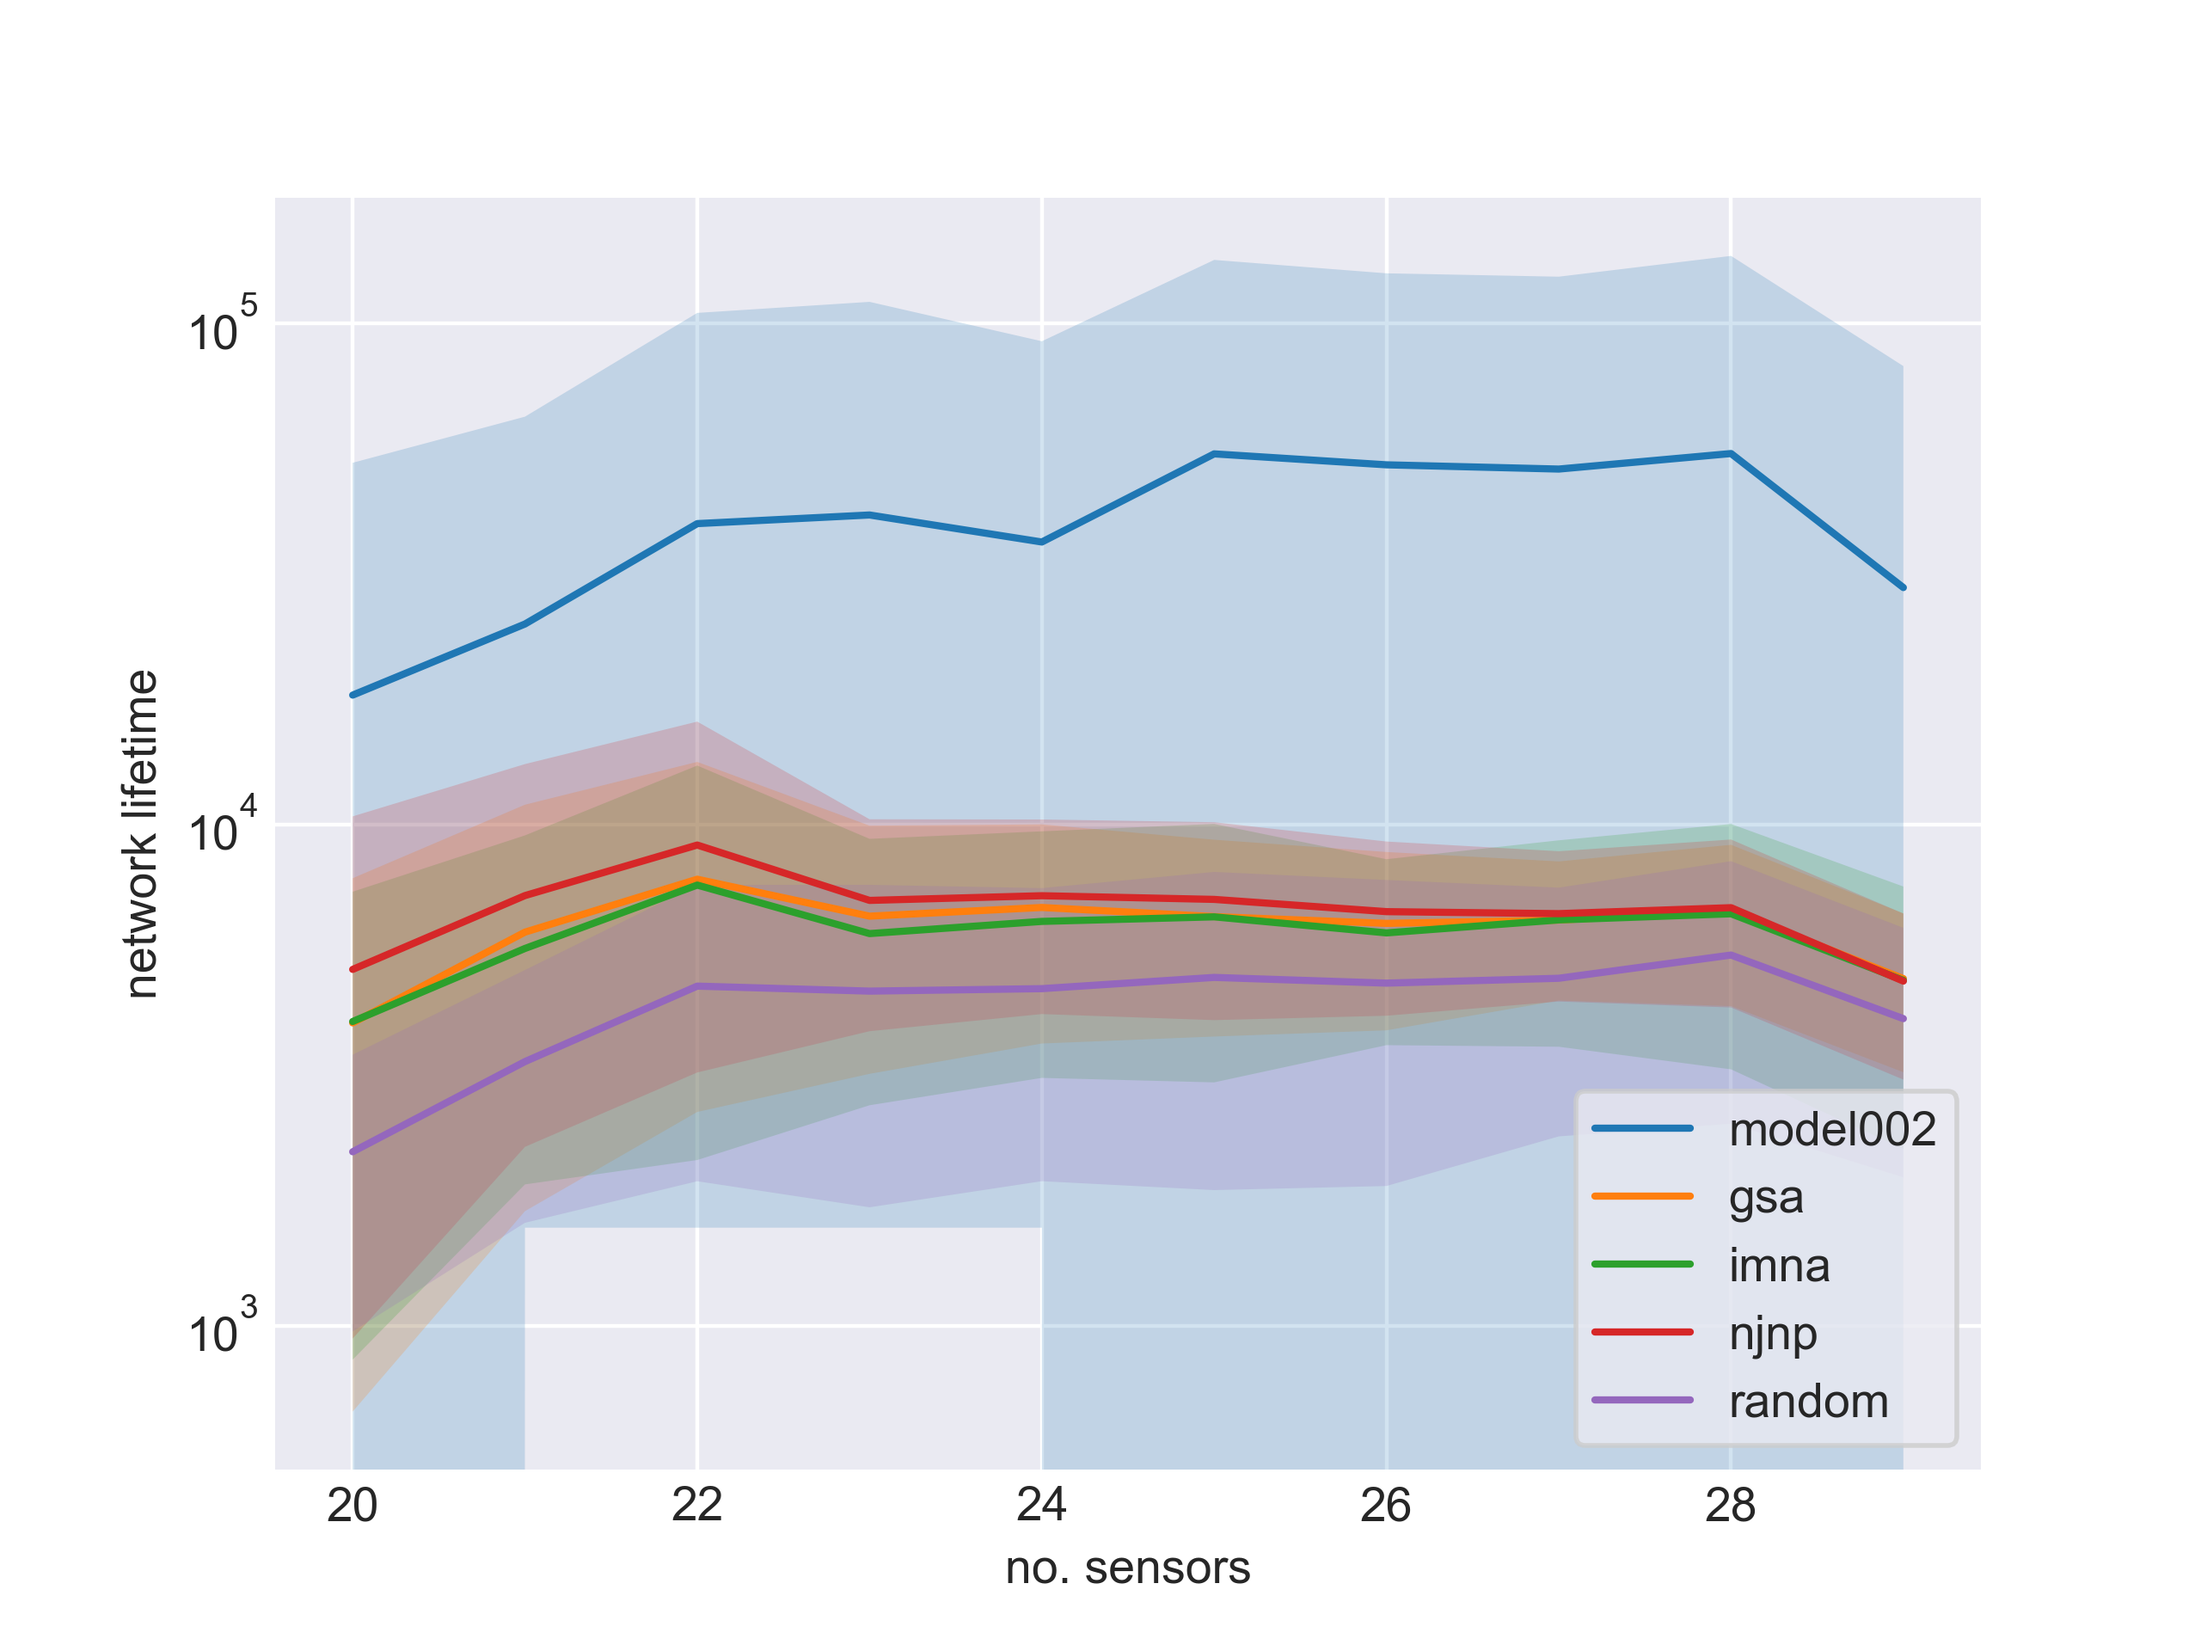
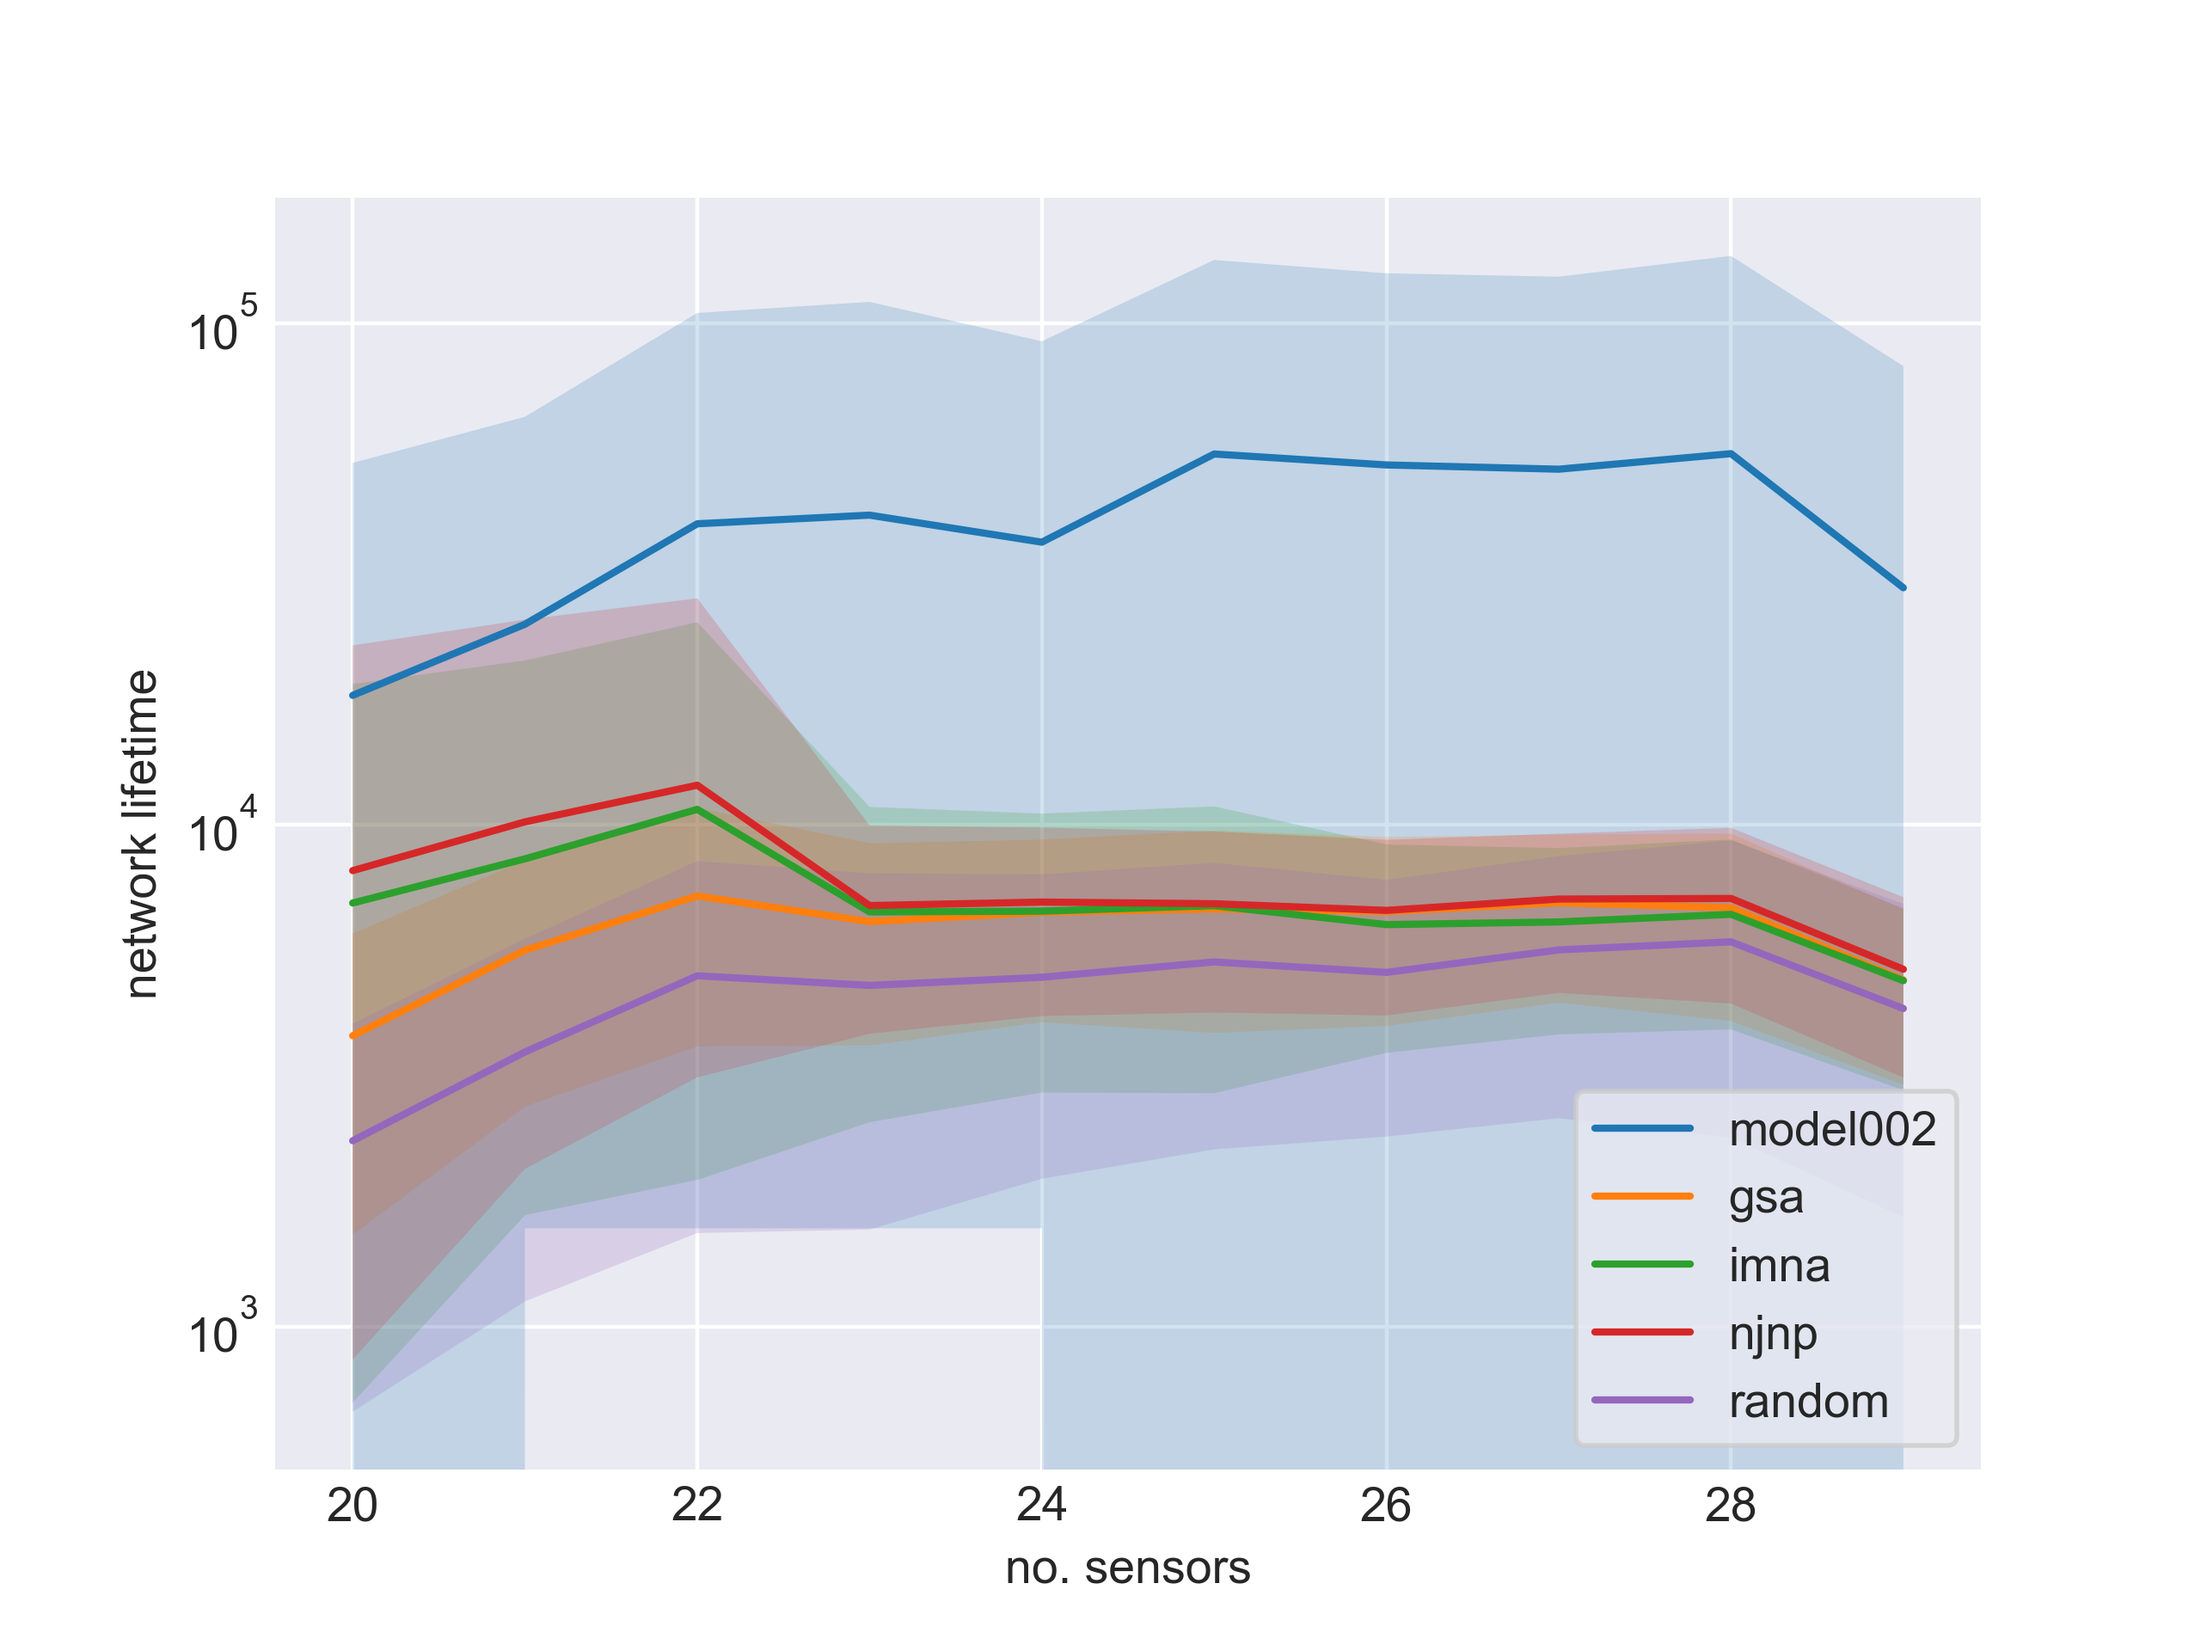
parallelize epts

Changed region(s): [[0.1562, 0.3438, 0.875, 0.8438], [0.1562, 0.6562, 0.2188, 0.7188]]

diff --git a/run_ept_12.py b/run_ept_12.py
@@ -14,6 +14,8 @@ import numpy as np
 import matplotlib.pyplot as plt
 import argparse
 import os
+import joblib
+import time
 
 import model002
 import imna
@@ -76,6 +78,15 @@ def plot_inf_data(x, data, xlabel, ylabel, title, save_dir):
 def run_ept_1_2(ept, seed=123, save_dir='results', rerun=[]):
     used_solvers = ec.ept2.solvers if ept == 2 else ec.ept1.solvers
 
+    def solver_wrapper(solver, jobs_desc, *args):
+        print("running", jobs_desc)
+        start_time = time.time()
+        ret = solver(*args)
+        print("done {}, take: {}, mean_lifetime: {}".format(jobs_desc, 
+                                         time.time() - start_time,
+                                         ret["lifetime_mean"]))
+        return ret
+
     def run_ept_1(save_dir):
         num_targets = ec.ept1.num_targets
         min_num_sensors = ec.ept1.min_num_sensors
@@ -85,15 +96,22 @@ def run_ept_1_2(ept, seed=123, save_dir='results', rerun=[]):
         max_episode_step = ec.max_episode_step
         
         res = defaultdict(list)
+        jobs_args = []
+        jobs_desc = []
         for num_sensors in range(min_num_sensors, max_num_sensors):
             test_data = WRSNDataset(num_sensors, num_targets, ec.ept1.test_size, seed)
             data_loader = DataLoader(test_data, 1, False, num_workers=0)
             for name, solver in solvers.items():
                 if name in used_solvers:
                     if not os.path.isfile(os.path.join(save_dir, f'{name}.pickle')) or name in rerun:
-                        print(f"running on {num_sensors, name}")
-                        ret = solver(data_loader, name, save_dir, wp, max_episode_step)
-                        res[name].append((num_sensors, ret))
+                        jobs_args.append((data_loader, name, save_dir, wp, max_episode_step))
+                        jobs_desc.append((name, num_sensors))
+
+        rets = joblib.Parallel(n_jobs=-1)(joblib.delayed(solver_wrapper)(
+            solvers[jobs_desc[i][0]], jobs_desc[i], *jobs_args[i]) for i in range(len(jobs_args)))
+
+        for i, ret in enumerate(rets):
+            res[jobs_desc[i][0]].append((jobs_desc[i][1], ret))
 
         for key, value in res.items():                
             pdump(value, f'{key}.pickle', save_dir)
@@ -106,6 +124,9 @@ def run_ept_1_2(ept, seed=123, save_dir='results', rerun=[]):
         step = ec.ept2.step
         max_episode_step = ec.max_episode_step
 
+        jobs_args = []
+        jobs_desc = []
+
         res = defaultdict(list)
         test_data = WRSNDataset(num_sensors, num_targets, ec.ept2.test_size, seed)
         data_loader = DataLoader(test_data, 1, False, num_workers=0)
@@ -117,10 +138,15 @@ def run_ept_1_2(ept, seed=123, save_dir='results', rerun=[]):
             for name, solver in solvers.items():
                 if name in used_solvers:
                     if not os.path.isfile(os.path.join(save_dir, f'{name}.pickle')) or name in rerun:
-                        print(f"running on {prob, name}")
-                        ret = solver(data_loader, name, save_dir, wp, max_episode_step)
-                        res[name].append((prob, ret))
-            
+                        jobs_args.append((data_loader, name, save_dir, wp, max_episode_step))
+                        jobs_desc.append((name, prob))
+
+        rets = joblib.Parallel(n_jobs=-1)(joblib.delayed(solver_wrapper)(
+            solvers[jobs_desc[i][0]], jobs_desc[i], *jobs_args[i]) for i in range(len(jobs_args)))
+
+        for i, ret in enumerate(rets):
+            res[jobs_desc[i][0]].append((jobs_desc[i][1], ret))
+
         for key, value in res.items():                
             pdump(value, f'{key}.pickle', save_dir)
 
@@ -150,7 +176,6 @@ def run_ept_1_2(ept, seed=123, save_dir='results', rerun=[]):
         aggregated_ecr_mean = []
         aggregated_ecr_std = []
         inf_model_data = []
-
         for num_sensors, ret in model_data:
             idx.append(num_sensors)
             lifetime_mean.append(ret['lifetime_mean'])

diff --git a/run_ept_3.py b/run_ept_3.py
@@ -14,6 +14,8 @@ import numpy as np
 import matplotlib.pyplot as plt
 import argparse
 import os
+import joblib
+import time
 from main import decision_maker
 from random_strategy import random_decision_maker
 from imna import imna_decision_maker
@@ -31,6 +33,8 @@ def validate(data_loader, decision_maker, args=None,
              render=False, verbose=False, normalize=True,
              on_validation_begin=None, on_validation_end=None, 
              on_episode_begin=None, on_episode_end=None):
+    start_time = time.time()
+
     if on_validation_begin is not None:
         on_validation_begin(*args)
 
@@ -39,7 +43,7 @@ def validate(data_loader, decision_maker, args=None,
     k_bit = wp.k_bit
 
     for idx, data in enumerate(data_loader):
-        if verbose: print("Test %d" % idx)
+        print("Test %d" % idx)
 
         sensors, targets = data
         package_generation_prob = np.random.uniform(*prob_range)
@@ -112,6 +116,7 @@ def validate(data_loader, decision_maker, args=None,
     if on_validation_end is not None:
         on_validation_end(*args)
 
+    print("Validation time : {}".format(time.time() - start_time))
     return ret
 
 def run_model002(data_loader, name, save_dir, wp, prob_range, max_step=1000):
@@ -148,13 +153,14 @@ def run_gsa(data_loader, name, save_dir, wp, prob_range, max_step=1000):
     def gsa_reset(gsa):
         gsa.reset()
 
-    gsa = GSA()
-    return validate(data_loader, gsa.gsa_decision_maker, (gsa,), wp=wp, prob_range=prob_range, 
+    gsa_ = gsa.GSA()
+    return validate(data_loader, gsa.gsa_decision_maker, (gsa_,), wp=wp, prob_range=prob_range, 
                     normalize=False, max_step=max_step, on_episode_begin=gsa_reset)
 
 
 solvers = {
     "model002": run_model002,
+    "gsa": run_gsa,
     "imna": run_imna,
     "njnp": run_njnp,
     "random": run_random,
@@ -162,13 +168,22 @@ solvers = {
 
 label_map = {
     "model002": "model002",
+    "gsa": "gsa",
     "imna": "imna",
-    "njnp", "njnp"
+    "njnp": "njnp",
     "random": "random",
 }
 
 def run_ept_3(seed=123, save_dir='results', rerun=[]):
     used_solvers = ec.ept3.solvers
+
+    def solver_wrapper(solver, jobs_desc, *args):
+        print("running", jobs_desc)
+        start_time = time.time()
+        ret = solver(*args)
+        print("done {}, take: {}".format(jobs_desc, 
+                                         time.time() - start_time))
+        return ret
 
     def run(save_dir):
         num_targets = ec.ept3.num_targets
@@ -182,6 +197,9 @@ def run_ept_3(seed=123, save_dir='results', rerun=[]):
         test_data = WRSNDataset(num_sensors, num_targets, ec.ept3.test_size, seed)
         data_loader = DataLoader(test_data, 1, False, num_workers=0)
 
+        jobs_args = []
+        jobs_desc = []
+
         for prob in np.arange(min_prob, max_prob, step):
             wp = WrsnParameters()
             prob_range = (prob, prob + step)
@@ -189,10 +207,14 @@ def run_ept_3(seed=123, save_dir='results', rerun=[]):
             for name, solver in solvers.items():
                 if name in used_solvers:
                     if not os.path.isfile(os.path.join(save_dir, f'{name}.pickle')) or name in rerun:
-                        print(f"running on {prob_range, name}")
-                        for _ in range(ec.ept3.repeat):
-                            ret = solver(data_loader, name, save_dir, wp, prob_range, max_episode_step)
-                            res[name].append(ret)
+                        jobs_args.append((data_loader, name, save_dir, wp, prob_range, max_episode_step))
+                        jobs_desc.append((name, prob_range))
+
+        rets = joblib.Parallel(n_jobs=-1)(joblib.delayed(solver_wrapper)(
+            solvers[jobs_desc[i][0]], jobs_desc[i], *jobs_args[i]) for i in range(len(jobs_args)))
+
+        for i, ret in enumerate(rets):
+            res[jobs_desc[i][0]].append((jobs_desc[i][1], ret))
             
         for key, value in res.items():                
             pdump(value, f'{key}.pickle', save_dir)
